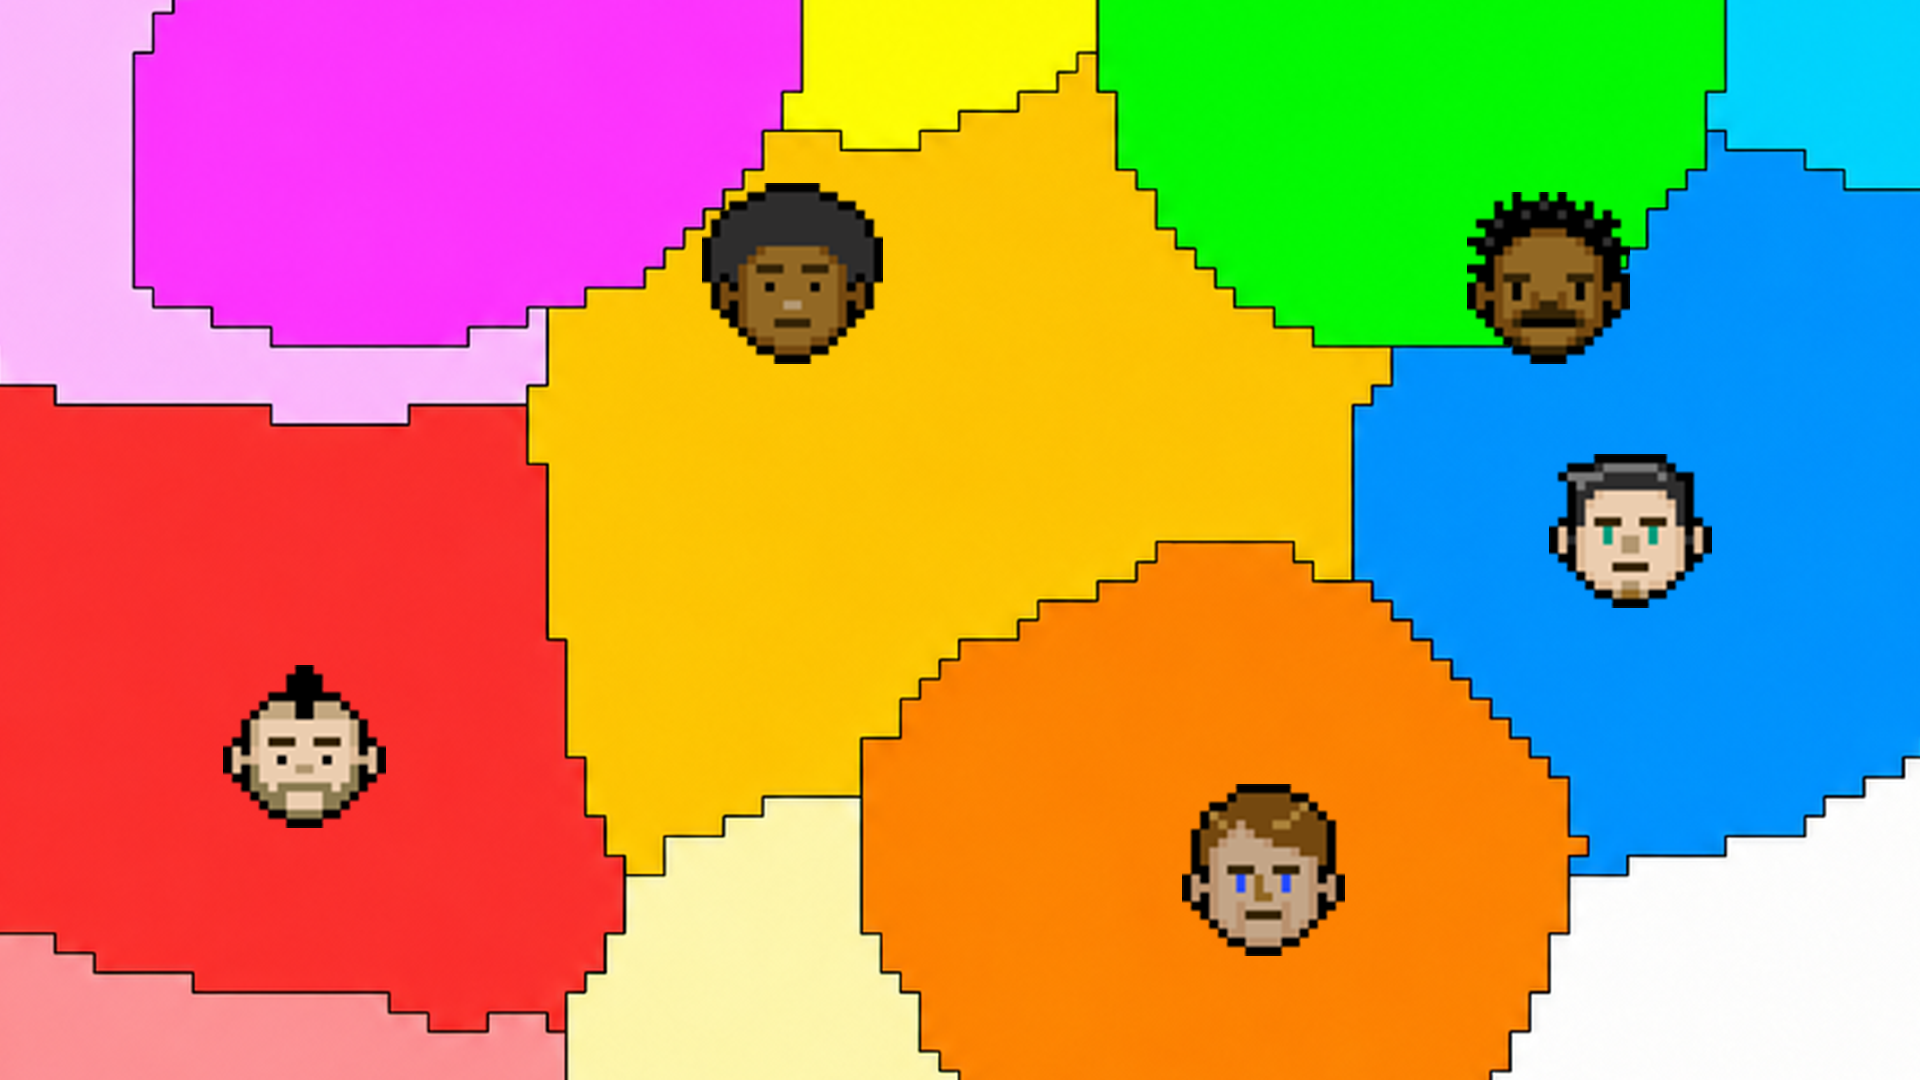
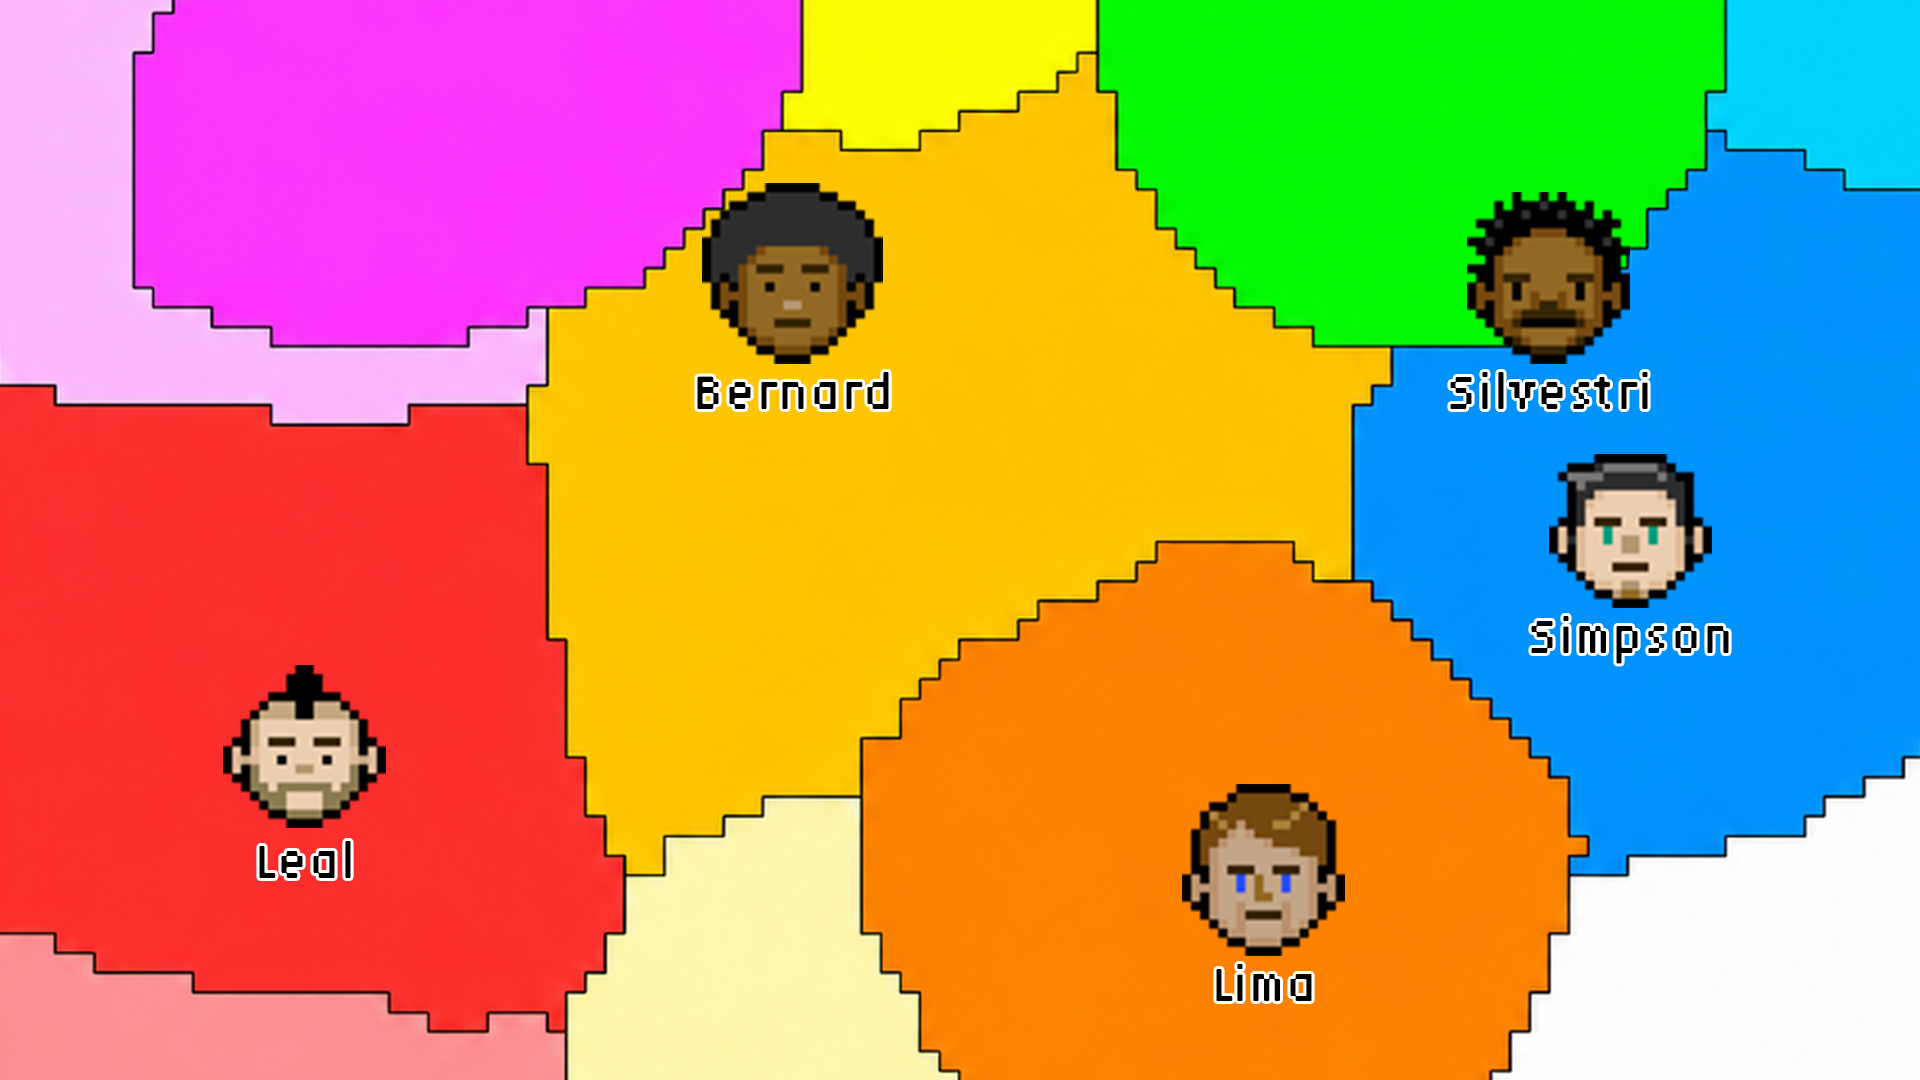
Add analitics tool

diff --git a/app/layout.tsx b/app/layout.tsx
@@ -4,6 +4,8 @@ import Link from "next/link";
 import SiteNavigation from "./SiteNavigation";
 import "./globals.css";
 import PageBackground from "./PageBackground";
+import { Analytics } from "@vercel/analytics/next"
+import { SpeedInsights } from "@vercel/speed-insights/next"
 
 export const metadata: Metadata = {
   title: "NPFC Manual",
@@ -16,6 +18,7 @@ export default function RootLayout({
   children: React.ReactNode;
 }>) {
   return (
+    <>
     <html lang="en">
       <body>
         <PageBackground />
@@ -48,5 +51,8 @@ export default function RootLayout({
         </footer>
       </body>
     </html>
+    <Analytics />
+    <SpeedInsights />
+    </>
   );
 }
